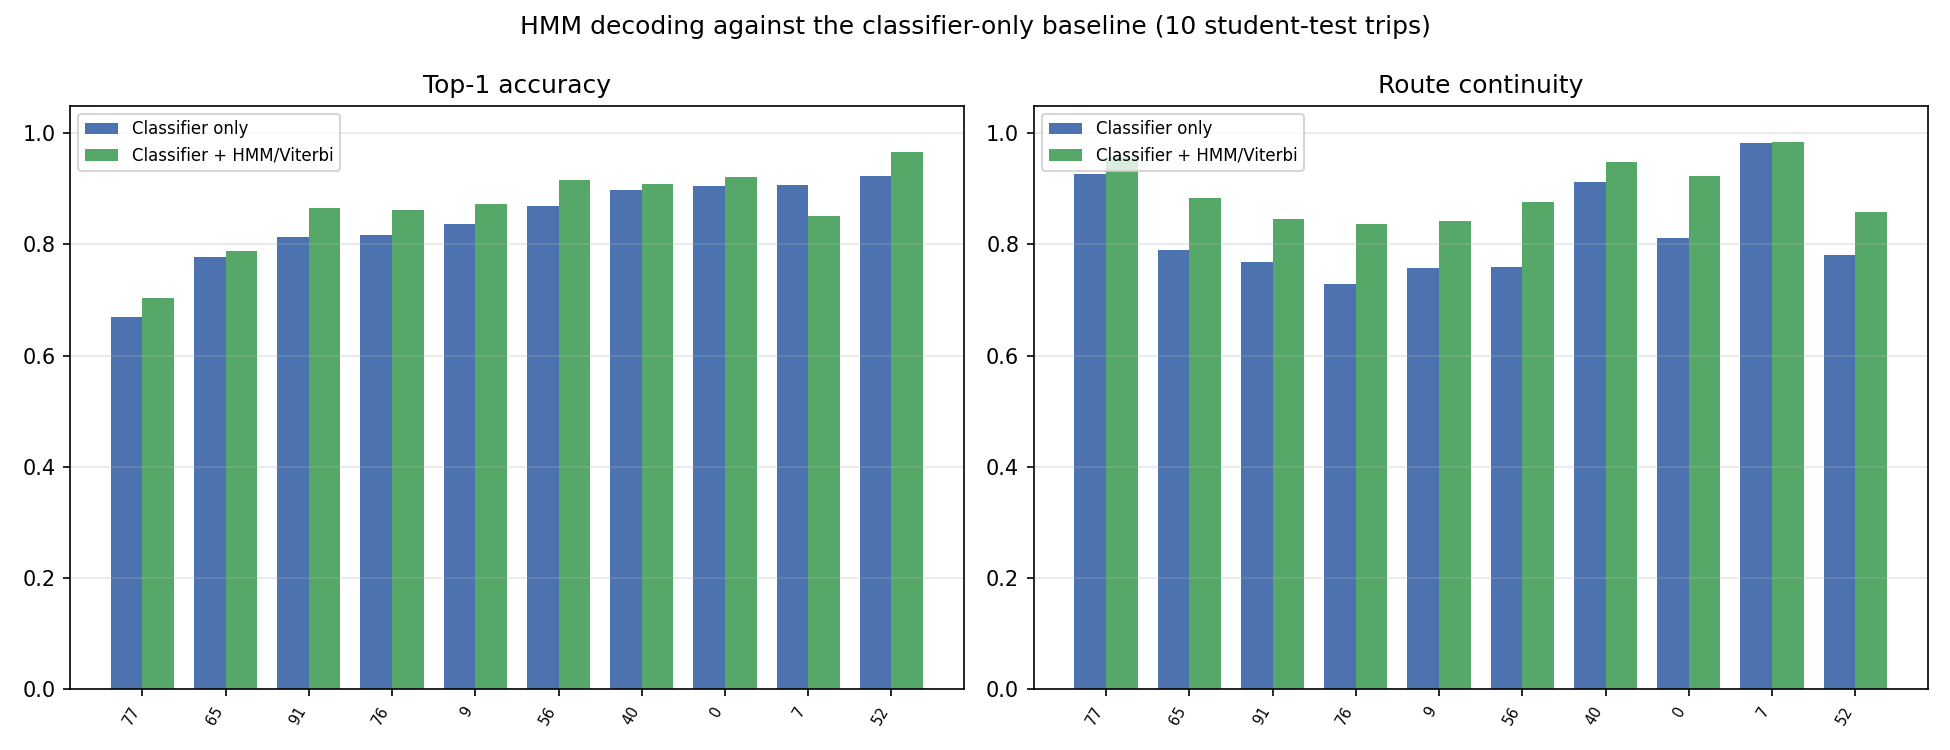
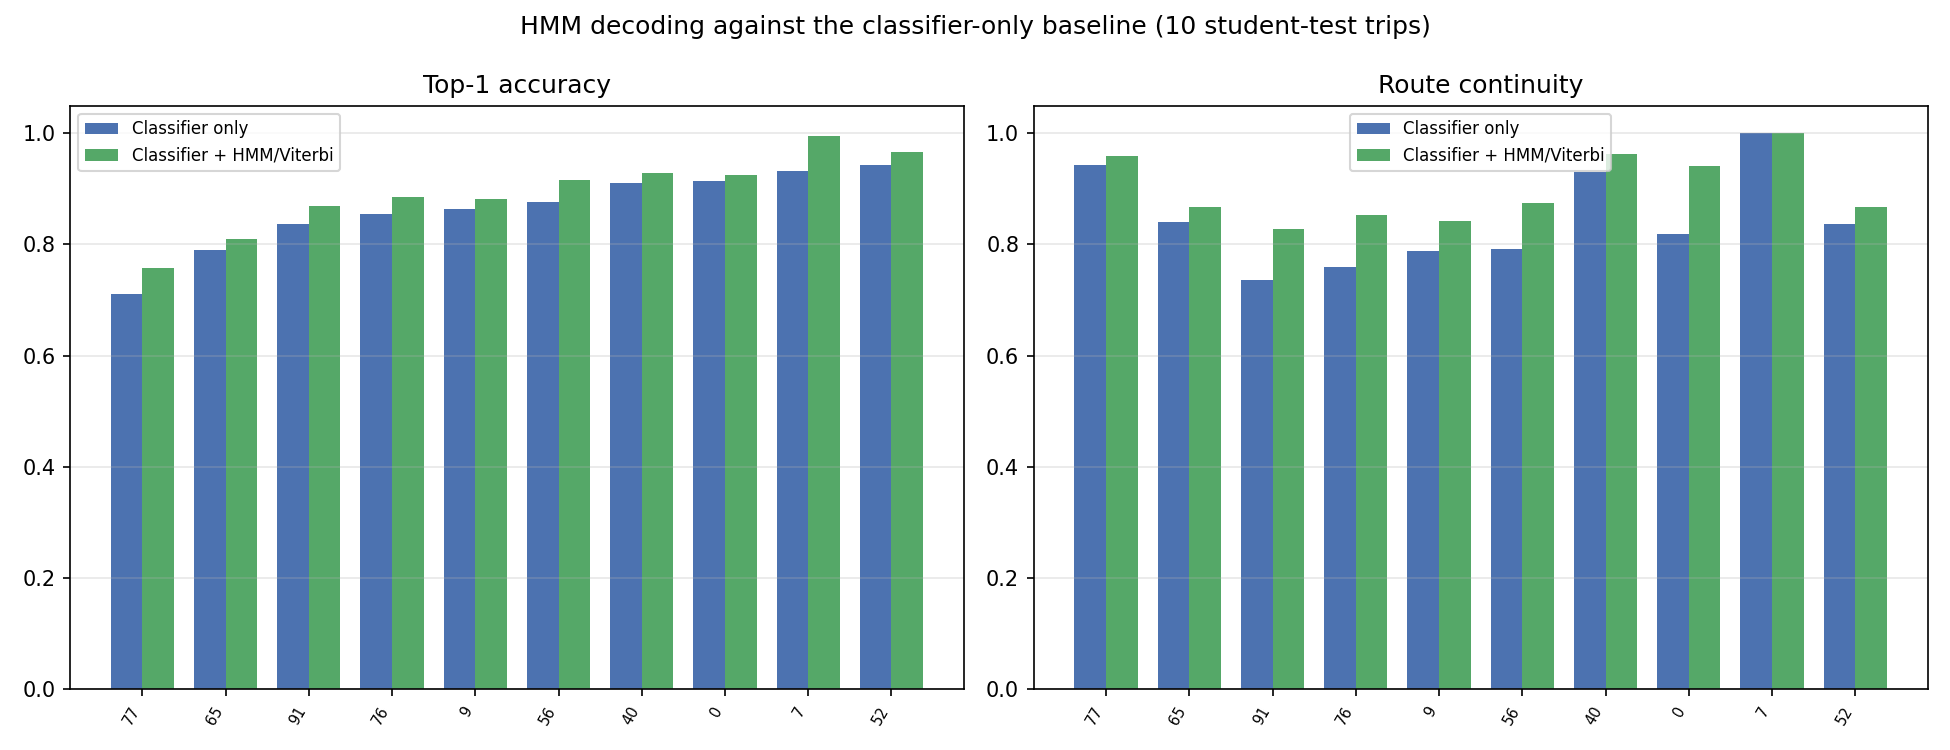
Re-run HMM evaluation with the best model and cache the UI's API calls
The committed HMM comparison was measured with logistic regression, which
was the only exported artifact at the time. Re-run against gradient
boosting, the model the API actually serves:

                      classifier    + HMM      change
  Top-1 accuracy        0.8501      0.8824     +0.0322
  Route continuity      0.8598      0.9176     +0.0578

10/10 trips now improve on Top-1, up from 9/10. Trip 00000007, previously
the one case where decoding cost accuracy (-0.055), now gains +0.062 - its
classifier-only continuity is 1.000 under the stronger model, so the decoder
has a consistent route to work with rather than one to fight.

Better emissions make the decoder better. That is the point of pairing a
learned emission model with a classical decoder, and it is now measured
rather than asserted.

UI: the four read-only endpoints are cached for 60 s. Streamlit re-runs the
whole script on every interaction, so each click was firing four GETs and
burying the prediction lines in the API log the evaluator watches.

plots.py: the palette had five colours and there are now six models, which
crashed the accuracy-vs-cost scatter. Cycles instead of slicing.

Figures and REPORT.md regenerated from the new results.

diff --git a/src/train_vs_test.py b/src/train_vs_test.py
@@ -1,0 +1,131 @@
+"""Training vs cross-validation vs test accuracy.  OWNER: Rhea
+
+    python -m src.train_vs_test
+
+Answers report section 3.2 question 9 - "did you observe overfitting or
+underfitting, and what evidence supports your conclusion?" - with measured
+numbers rather than an assertion.
+
+THREE NUMBERS, AND WHY ALL THREE ARE NEEDED
+  train  scored on the same rows the model was fitted on. On its own this
+         says nothing about generalisation; a model that memorises scores
+         1.0 here.
+  cv     group-aware 5-fold cross-validation over the 80 training trips,
+         grouped by trip. Held out, but from the same distribution.
+  test   the 10 student-testing trips, never seen in any form.
+
+  train - cv    measures how much the model fits noise within the training
+                trips. A large gap is overfitting.
+  cv - test     measures whether the training trips are representative. A
+                large gap means the test trips differ, not that the model
+                overfits.
+
+A model with train ~= cv ~= test and all three low is underfitting - it is
+consistent, just not capable enough.
+
+Scores the exported artifacts, so nothing is refitted and the numbers refer
+to exactly the models the API serves.
+"""
+
+import json
+import os
+
+import pandas as pd
+from sklearn.metrics import f1_score
+
+from src.features import FEATURE_COLS, load_dataset
+from src.models import _top1, load_final
+
+OUT = "results"
+INDEX = "artifacts/models.json"
+
+
+def score(model, df, feature_cols):
+    p = model.predict_proba(df[feature_cols])[:, 1]
+    return {
+        "top1": _top1(df, p),
+        "macro_f1": f1_score(df.label, (p >= 0.5).astype(int),
+                             average="macro", zero_division=0),
+    }
+
+
+def main():
+    tr = load_dataset("results/dataset_train.pkl")
+    te = load_dataset("results/dataset_test.pkl")
+    with open(INDEX) as f:
+        index = json.load(f)
+
+    cv = pd.read_csv(f"{OUT}/model_comparison.csv").set_index("model")
+
+    rows = []
+    for name, entry in index.items():
+        if not os.path.exists(entry["artifact"]):
+            continue
+        bundle = load_final(entry["artifact"])
+        model, feats = bundle["model"], bundle["features"]
+        print(f"  scoring {name}...", flush=True)
+
+        s_tr = score(model, tr, feats)
+        s_te = score(model, te, feats)
+        cv_top1 = float(cv.cv_top1.get(name, float("nan")))
+        cv_f1 = float(cv.cv_macro_f1.get(name, float("nan")))
+
+        rows.append({
+            "model": name,
+            "family": entry.get("family"),
+            "train_top1": s_tr["top1"],
+            "cv_top1": cv_top1,
+            "test_top1": s_te["top1"],
+            "train_macro_f1": s_tr["macro_f1"],
+            "cv_macro_f1": cv_f1,
+            "test_macro_f1": s_te["macro_f1"],
+            "train_minus_cv": s_tr["top1"] - cv_top1,
+            "cv_minus_test": cv_top1 - s_te["top1"],
+        })
+
+    df = pd.DataFrame(rows).sort_values("test_top1", ascending=False)
+    df.to_csv(f"{OUT}/train_vs_test.csv", index=False)
+    print(f"\nwrote {OUT}/train_vs_test.csv")
+
+    show = ["model", "train_top1", "cv_top1", "test_top1",
+            "train_minus_cv", "cv_minus_test"]
+    print("\n" + df[show].round(4).to_string(index=False))
+
+    _plot(df)
+    return df
+
+
+def _plot(df):
+    import matplotlib
+    matplotlib.use("Agg")
+    import matplotlib.pyplot as plt
+    import numpy as np
+
+    d = df.sort_values("test_top1", ascending=False)
+    x = np.arange(len(d))
+    w = 0.26
+
+    fig, ax = plt.subplots(figsize=(10, 5))
+    ax.bar(x - w, d.train_top1, w, label="Train (fitted rows)", color="#4C72B0")
+    ax.bar(x, d.cv_top1, w, label="Cross-validation (grouped by trip)", color="#DD8452")
+    ax.bar(x + w, d.test_top1, w, label="Student-test (held out)", color="#55A868")
+    ax.set_xticks(x)
+    ax.set_xticklabels([m.replace("_", "\n") for m in d.model], fontsize=8)
+    ax.set_ylabel("Top-1 accuracy")
+    ax.set_ylim(0, 1.0)
+    ax.set_title("Training vs cross-validation vs held-out accuracy\n"
+                 "(the train-to-CV gap is the overfitting evidence)", fontsize=11)
+    ax.legend(fontsize=8)
+    ax.grid(axis="y", alpha=0.3)
+    for i, r in enumerate(d.itertuples()):
+        ax.text(i - w, r.train_top1, f"{r.train_top1:.3f}", ha="center",
+                va="bottom", fontsize=6)
+        ax.text(i + w, r.test_top1, f"{r.test_top1:.3f}", ha="center",
+                va="bottom", fontsize=6)
+    fig.tight_layout()
+    fig.savefig(f"{OUT}/fig_train_vs_test.png", dpi=150)
+    print(f"wrote {OUT}/fig_train_vs_test.png")
+
+
+if __name__ == "__main__":
+    main()

diff --git a/ui/app.py b/ui/app.py
@@ -19,6 +19,17 @@ st.set_page_config(page_title="PathSnap", page_icon="*", layout="wide")
 st.title("PathSnap - Distributed Map-Matching & Route Reconstruction")
 st.caption("UE24CS352A Machine Learning | Laptop 2 (UI) -> Laptop 1 (API)")
 
+# Streamlit re-runs this whole script on every interaction, so without
+# caching each click fires four GETs and buries the actual prediction lines
+# in the API log the evaluator is watching. These three change rarely; 60 s
+# is short enough that a newly exported model still appears promptly.
+@st.cache_data(ttl=60, show_spinner=False)
+def api_get(url: str, params: tuple = ()):
+    r = requests.get(url, params=dict(params), timeout=8)
+    r.raise_for_status()
+    return r.json()
+
+
 def normalise_url(raw: str) -> str:
     """Accept '10.30.202.245:8000', 'http://host:8000/', or a bare host.
 
@@ -83,7 +94,7 @@ with col_a:
 # One API process serves both partitions and picks per request, so switching
 # to final evaluation needs no restart and no environment change on Laptop 1.
 try:
-    parts = requests.get(f"{api_url}/partitions", timeout=5).json()["partitions"]
+    parts = api_get(f"{api_url}/partitions")["partitions"]
 except Exception:
     parts = []
 
@@ -112,9 +123,8 @@ else:
     st.subheader("Development")
 
 try:
-    trip_params = {"partition": partition} if partition else {}
-    trips = requests.get(f"{api_url}/trips", params=trip_params,
-                         timeout=5).json()["trips"]
+    tp = (("partition", partition),) if partition else ()
+    trips = api_get(f"{api_url}/trips", tp)["trips"]
 except Exception as e:
     st.warning(f"Could not load trip list: {e}")
     trips = []
@@ -126,8 +136,7 @@ if not trips:
 # name means the dropdown is self-explaining - the evaluator can see what
 # they are choosing between without reading the report.
 try:
-    model_info = requests.get(f"{api_url}/models", timeout=5).json()
-    model_list = model_info.get("models", [])
+    model_list = api_get(f"{api_url}/models").get("models", [])
 except Exception:
     model_list = []
 
@@ -156,7 +165,7 @@ with c2:
 # read on paper are the same numbers, not two transcriptions.
 with st.expander("Model comparison — all models (Table 3.1)", expanded=False):
     try:
-        comp = requests.get(f"{api_url}/comparison", timeout=5).json()
+        comp = api_get(f"{api_url}/comparison")
         if comp.get("rows"):
             st.dataframe(comp["rows"], hide_index=True, use_container_width=True)
             st.caption(

diff --git a/src/plots.py b/src/plots.py
@@ -16,12 +16,17 @@ import numpy as np
 import pandas as pd
 
 OUT = "results"
-PALETTE = ["#4C72B0", "#DD8452", "#55A868", "#C44E52", "#8172B3"]
+PALETTE = ["#4C72B0", "#DD8452", "#55A868", "#C44E52", "#8172B3", "#937860"]
+
+
+def _colors(n):
+    """Cycle the palette - adding a sixth model must not break the figures."""
+    return [PALETTE[i % len(PALETTE)] for i in range(n)]
 
 
 def _bar(ax, labels, values, title, ylabel, errs=None, fmt="{:.3f}"):
     bars = ax.bar(range(len(labels)), values, yerr=errs, capsize=4,
-                  color=PALETTE[:len(labels)])
+                  color=_colors(len(labels)))
     ax.set_xticks(range(len(labels)))
     ax.set_xticklabels(labels, rotation=20, ha="right", fontsize=8)
     ax.set_title(title, fontsize=10)
@@ -52,7 +57,7 @@ def plot_model_comparison(csv=f"{OUT}/model_comparison.csv"):
 
     # Accuracy against cost - justifies the selection when scores are close.
     fig, ax = plt.subplots(figsize=(7, 5))
-    ax.scatter(df.inference_time_s, df.test_top1, s=90, c=PALETTE[:len(df)], zorder=3)
+    ax.scatter(df.inference_time_s, df.test_top1, s=90, c=_colors(len(df)), zorder=3)
     for _, r in df.iterrows():
         ax.annotate(r.model.replace("_", " "),
                     (r.inference_time_s, r.test_top1),

diff --git a/results/REPORT.md b/results/REPORT.md
@@ -229,43 +229,33 @@ Full trial history: `results/optuna_trials.csv`.
 
 | Metric           |   Classifier only |   Classifier + HMM/Viterbi |   Change |
 |:-----------------|------------------:|---------------------------:|---------:|
-| Top-1 accuracy   |            0.8287 |                     0.8545 |   0.0258 |
-| Route continuity |            0.8401 |                     0.9117 |   0.0716 |
+| Top-1 accuracy   |            0.8501 |                     0.8824 |   0.0322 |
+| Route continuity |            0.8598 |                     0.9176 |   0.0578 |
 
 
-Trips improved on Top-1: 9/10. On continuity: 10/10.
+Trips improved on Top-1: 10/10. On continuity: 9/10.
 
 
 ### 5.2 Per-trip results
 
 |   trip_id |   n_obs |   clf_top1 |   hmm_top1 |   top1_delta |   clf_continuity |   hmm_continuity |   continuity_delta |   hmm_time_s |
 |----------:|--------:|-----------:|-----------:|-------------:|-----------------:|-----------------:|-------------------:|-------------:|
-|         0 |    2503 |     0.9057 |     0.9209 |       0.0152 |           0.8123 |           0.9228 |             0.1105 |        1.539 |
-|         7 |    1354 |     0.9062 |     0.8508 |      -0.0554 |           0.9828 |           0.9841 |             0.0013 |        0.586 |
-|         9 |    1049 |     0.836  |     0.8732 |       0.0372 |           0.7576 |           0.842  |             0.0844 |        2.28  |
-|        40 |    2995 |     0.8972 |     0.9095 |       0.0124 |           0.913  |           0.9489 |             0.0359 |        2.816 |
-|        52 |     262 |     0.9237 |     0.9656 |       0.042  |           0.7802 |           0.8588 |             0.0786 |        0.285 |
-|        56 |    3958 |     0.8693 |     0.9155 |       0.0462 |           0.7597 |           0.8764 |             0.1168 |        5.773 |
-|        65 |     768 |     0.7773 |     0.7891 |       0.0117 |           0.7903 |           0.8842 |             0.0939 |        3.969 |
-|        76 |    1486 |     0.817  |     0.8627 |       0.0458 |           0.7296 |           0.8366 |             0.1069 |        9.83  |
-|        77 |    3911 |     0.6689 |     0.7042 |       0.0353 |           0.9276 |           0.9574 |             0.0299 |       12.521 |
-|        91 |     874 |     0.8135 |     0.8661 |       0.0526 |           0.7683 |           0.8462 |             0.0779 |        1.149 |
+|         0 |    2503 |     0.9149 |     0.9241 |       0.0092 |           0.8196 |           0.9414 |             0.1218 |        1.592 |
+|         7 |    1354 |     0.9328 |     0.9948 |       0.062  |           1      |           1      |             0      |        0.732 |
+|         9 |    1049 |     0.8637 |     0.8818 |       0.0181 |           0.7885 |           0.8422 |             0.0537 |        1.966 |
+|        40 |    2995 |     0.9102 |     0.9279 |       0.0177 |           0.9302 |           0.9628 |             0.0326 |        4.129 |
+|        52 |     262 |     0.9427 |     0.9656 |       0.0229 |           0.8372 |           0.8675 |             0.0303 |        0.467 |
+|        56 |    3958 |     0.8764 |     0.9165 |       0.0401 |           0.7912 |           0.8754 |             0.0842 |        8.736 |
+|        65 |     768 |     0.7904 |     0.8099 |       0.0195 |           0.8397 |           0.867  |             0.0274 |       12.582 |
+|        76 |    1486 |     0.8546 |     0.8863 |       0.0316 |           0.7598 |           0.8527 |             0.0929 |        2.667 |
+|        77 |    3911 |     0.7106 |     0.7579 |       0.0473 |           0.9429 |           0.96   |             0.0171 |       14.265 |
+|        91 |     874 |     0.8375 |     0.8684 |       0.0309 |           0.7353 |           0.8282 |             0.093  |        1.234 |
 
 
 ![HMM comparison](fig_hmm_comparison.png)
 
 
 ![HMM per-trip delta](fig_hmm_delta.png)
-
-
-### 5.3 Where decoding did not help
-
-|   trip_id |   max_gap_s |   clf_top1 |   hmm_top1 |   top1_delta |   clf_continuity |
-|----------:|------------:|-----------:|-----------:|-------------:|-----------------:|
-|         7 |           1 |     0.9062 |     0.8508 |      -0.0554 |           0.9828 |
-
-
->>> WRITE THIS YOURSELF <<< — explain this case. Note its classifier-only continuity was already very high, so there was little for the decoder to repair, and the transition prior pulled some correct independent predictions onto a smoother but wrong path.
 
 
 **Hidden states, emissions, transitions, gap handling.** >>> WRITE THIS YOURSELF <<< — describe each, referring to `src/hmm.py`.
